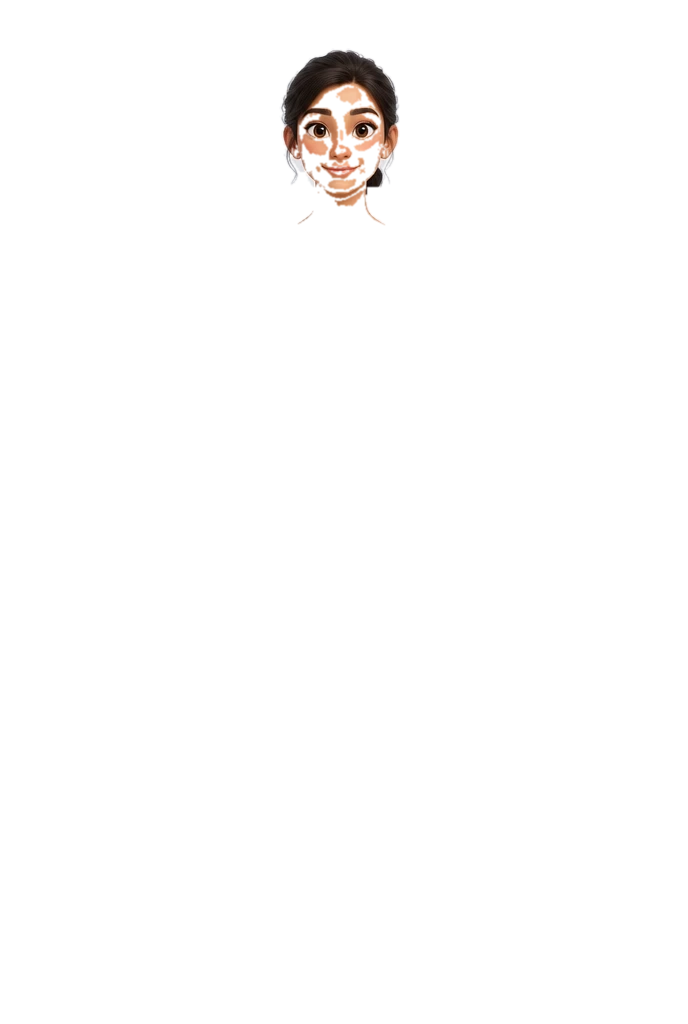
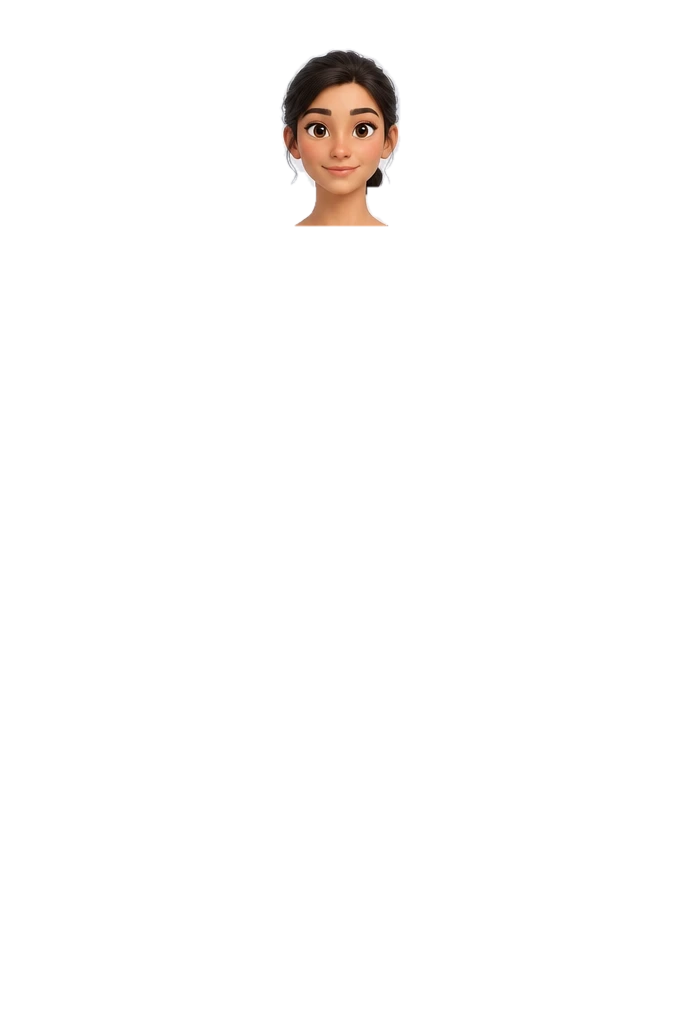
Vrstvy obličeje bez skvrn a přebarvení obličeje na jinou pleť
- Obličej + vlasy se do vrstvy berou celé podle masky SegFormeru,
  rozdíl obrázků doplní jen přesahy (žádné prosvítání holé hlavy)
- face-{pohlaví}-default přepočítány z původních těl (zdarma)
- recolorFace: obličej pro jinou pleť přebarvením kůže, automaticky
  po vygenerování pleti, ručně --faces; aplikace vybírá obličej podle pleti

Claude-Session: https://claude.ai/code/session_016QHvLd7t7SCoDpQaJSVD2h

Changed region(s): [[0.4273, 0.0625, 0.5799, 0.2188]]

diff --git a/src/app/core/avatar.store.ts b/src/app/core/avatar.store.ts
@@ -34,7 +34,7 @@ export interface BodyMap {
 
 interface Manifest {
   bodies: Record<string, AvatarBody & { map: BodyMap }>;
-  faces?: { id: string; gender: Gender; name: string }[];
+  faces?: { id: string; gender: Gender; name: string; skin?: SkinTone }[];
 }
 
 export const DEFAULT_BODY: AvatarBody = { gender: 'male', size: 'M', skin: 'medium' };
@@ -85,10 +85,11 @@ export class AvatarStore {
     return this.isAvailable(body) ? `seed/avatars/${bodyId(body)}-transparent.webp` : AVATAR_URL;
   }
 
-  /** Obličej pro dané tělo (zatím výchozí podle pohlaví). */
+  /** Obličej pro dané tělo (zatím výchozí podle pohlaví, přebarvený na pleť těla). */
   faceFor(body: AvatarBody): string | null {
     if (!this.isAvailable(body)) return null;
-    const face = this.faces().find((f) => f.gender === body.gender);
+    const ofGender = this.faces().filter((f) => f.gender === body.gender);
+    const face = ofGender.find((f) => (f.skin ?? 'medium') === body.skin) ?? ofGender.find((f) => (f.skin ?? 'medium') === 'medium');
     return face ? `seed/avatars/${face.id}.webp` : null;
   }
 }

diff --git a/docs/stav-projektu.md b/docs/stav-projektu.md
@@ -259,7 +259,10 @@ Hotovo:
 
 Vygenerováno (25. 10.): muž a žena S–XL se střední pletí (8 těl). Póza drží, hlava je u všech velikostí stejného pohlaví na stejném místě. Model ale obličej neodstranil → přidán krok `--blank-heads` (2 volání pro střední pleť).
 
-Další kroky: `--blank-heads --run`, kontrola, pak `--run` pro ostatní pleti (24 těl). a kontrolu, že těla drží pózu a obličej sedí na všechna těla.
+Holé hlavy hotové (8 těl figurín). Vrstvy obličeje `face-{pohlaví}-default` přepočítány zdarma z původních těl: obličej + vlasy se berou celé (maska SegFormeru), rozdíl obrázků doplní jen přesahy – po složení téměř shodné s originálem.
+Pro jiné pleti se obličej zdarma přebarví (`face-{pohlaví}-default-{pleť}`, kůže podle tónu, vlasy/oči/obočí zůstanou); děje se automaticky po vygenerování pleti, ručně `--faces`.
+
+Další krok: `--run` pro ostatní pleti (24 těl, cca 25 Kč). a kontrolu, že těla drží pózu a obličej sedí na všechna těla.
 
 Známé: výchozí cartoon vrstvy oblečení jsou dělané na výchozí tělo, na jiných tělech sedí jen přibližně, dokud nebude druhá fáze.
 
